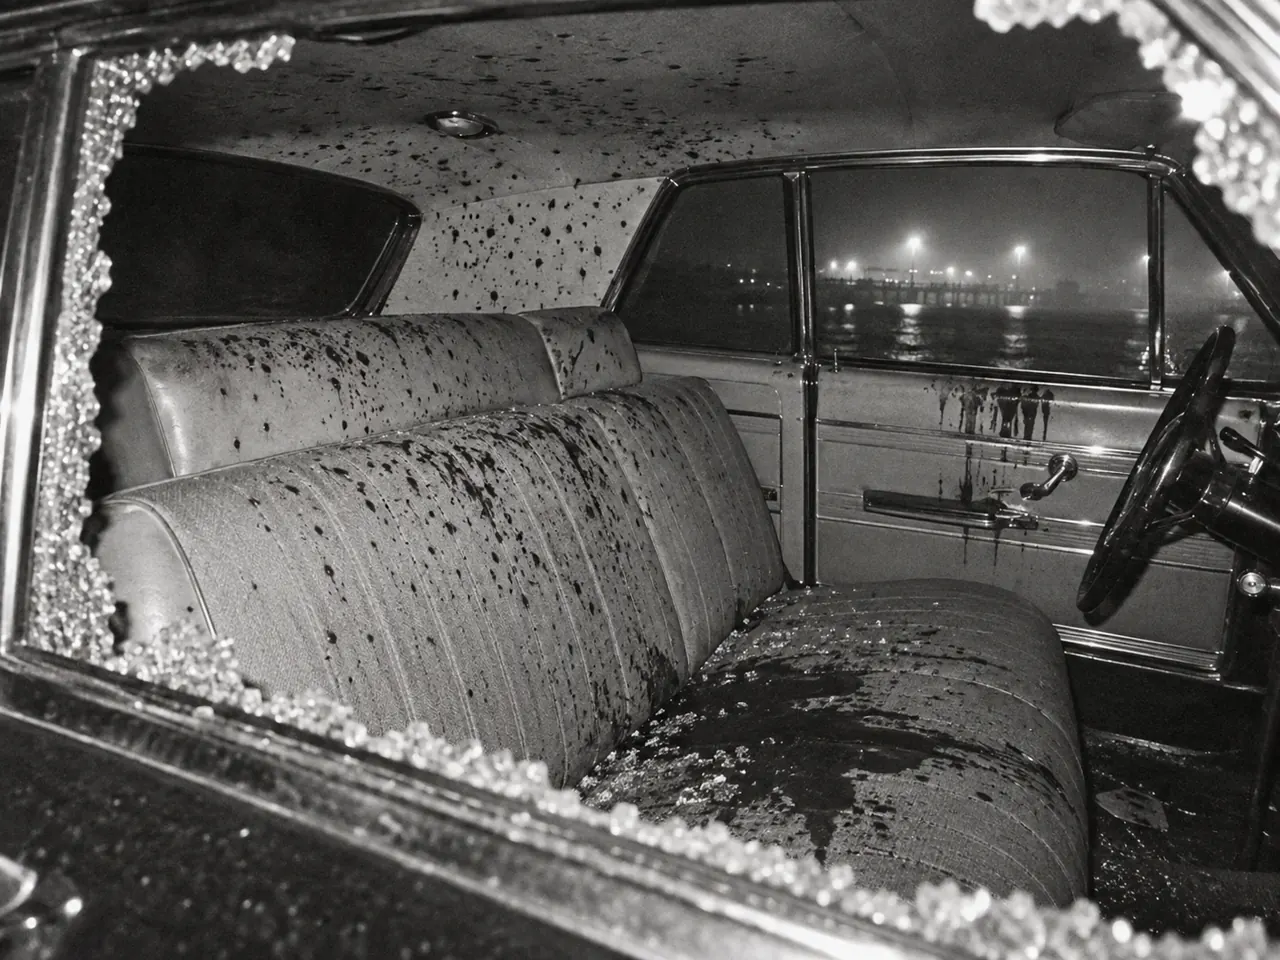
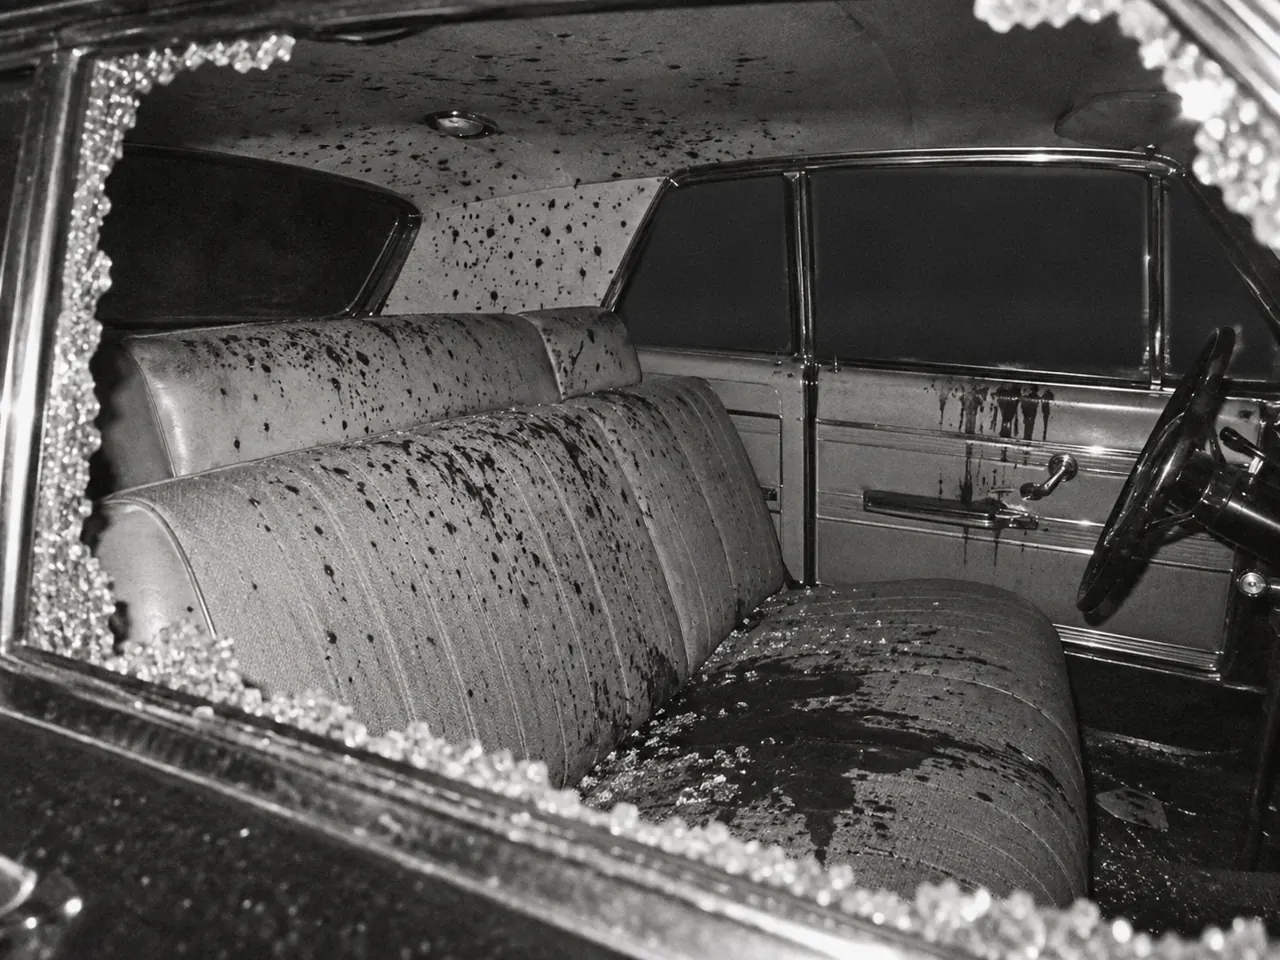
Two CASE 05 photos now agree with the records: the morning photo at Mason Hill shows the driver's window half lowered, as the coroner's note has the first shot fired through it, and the night flash photo inside the Cedar Creek car no longer shows a lit harbour pier through the far windows of a car p

Changed region(s): [[0.625, 0.1875, 1.0, 0.4062]]

diff --git a/img/manifest.js b/img/manifest.js
@@ -79,7 +79,7 @@ window.MG.images = {
   "c04/siteboard": "img/c04/siteboard.webp?v=3c43e2ed",
   "c04/wind": "img/c04/wind.webp?v=2fd0c4b9",
   "c05/cedar": "img/c05/cedar.webp?v=a9c76744",
-  "c05/cedar_car": "img/c05/cedar_car.webp?v=a773fe6b",
+  "c05/cedar_car": "img/c05/cedar_car.webp?v=c92f2832",
   "c05/cipherimg": "img/c05/cipherimg.webp?v=a73fc31c",
   "c05/cover": "img/c05/cover.webp?v=bfba11ba",
   "c05/cover_bg": "img/c05/cover_bg.webp?v=76a33dca",
@@ -92,7 +92,7 @@ window.MG.images = {
   "c05/env_typed": "img/c05/env_typed.webp?v=b580f052",
   "c05/letter1": "img/c05/letter1.webp?v=e312a814",
   "c05/lighthouse": "img/c05/lighthouse.webp?v=99ed9a7c",
-  "c05/masonhill": "img/c05/masonhill.webp?v=15d848d4",
+  "c05/masonhill": "img/c05/masonhill.webp?v=8639cc18",
   "c05/mh_car": "img/c05/mh_car.webp?v=9535b117",
   "c05/payphone": "img/c05/payphone.webp?v=d938a1a5",
   "c05/sketch": "img/c05/sketch.webp?v=5f76bfcb",
